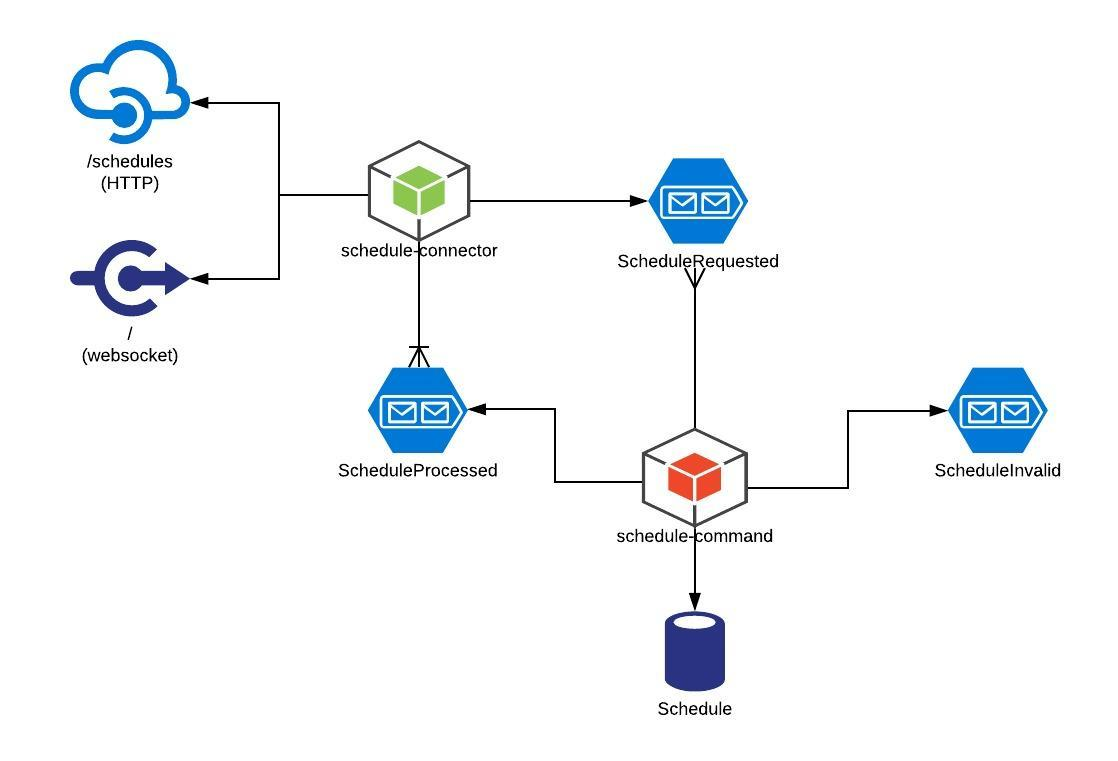
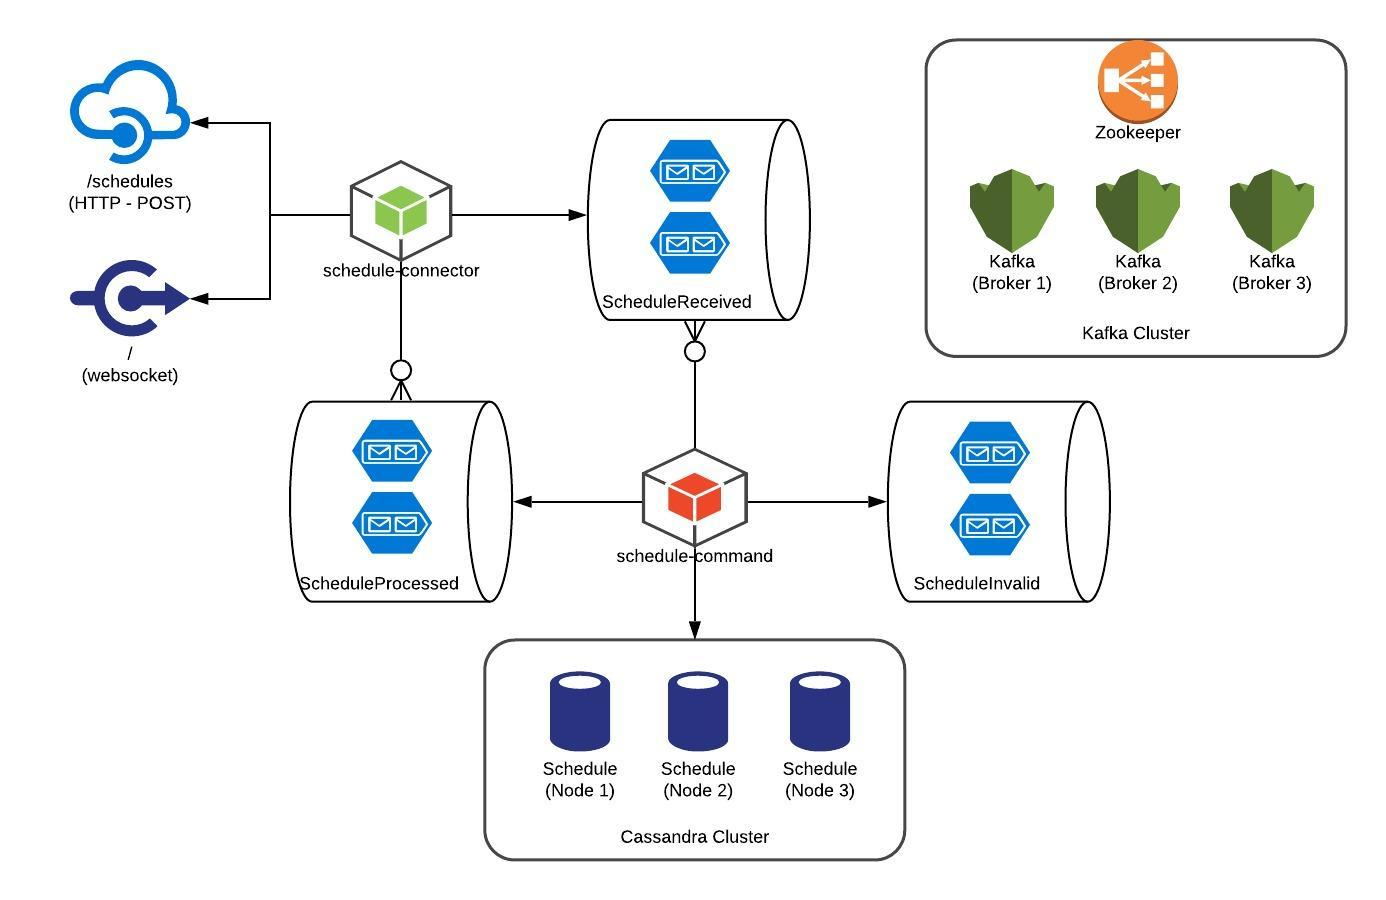
Create cassandra cluster

diff --git a/commons-cassandra/src/main/java/br/com/emmanuelneri/reactivemicroservices/cassandra/config/CassandraConfiguration.java b/commons-cassandra/src/main/java/br/com/emmanuelneri/reactivemicroservices/cassandra/config/CassandraConfiguration.java
@@ -2,6 +2,9 @@ package br.com.emmanuelneri.reactivemicroservices.cassandra.config;
 
 import io.vertx.cassandra.CassandraClientOptions;
 import io.vertx.core.json.JsonObject;
+import java.net.InetSocketAddress;
+import java.util.Objects;
+import java.util.stream.Stream;
 import lombok.Getter;
 import lombok.ToString;
 
@@ -9,11 +12,27 @@ import lombok.ToString;
 @ToString
 public final class CassandraConfiguration {
 
+    private static final String CONTACT_POINT_SEPARATION_CHARACTER = ",";
+    private static final String PORT_SEPARATION_CHARACTER = ":";
     private final CassandraClientOptions options = new CassandraClientOptions();
 
     public CassandraConfiguration(final JsonObject configuration) {
-        options.addContactPoint(configuration.getString("cassandra.contactPoint"));
-        options.setPort(configuration.getInteger("cassandra.port"));
+        final String contactPoints = configuration.getString("cassandra.contactPoints");
+        if (Objects.nonNull(contactPoints)) {
+            Stream.of(contactPoints.split(CONTACT_POINT_SEPARATION_CHARACTER))
+                .forEach(contactPoint -> {
+                    final int separationIndex = contactPoint.indexOf(":");
+                    final String address = contactPoint.substring(0, separationIndex);
+                    final int port = Integer.parseInt(contactPoint.substring(separationIndex + 1));
+                    options.dataStaxClusterBuilder()
+                        .addContactPointsWithPorts(new InetSocketAddress(address, port));
+                });
+        }
+        else {
+            options.setPort(configuration.getInteger("cassandra.port"));
+            options.addContactPoint(configuration.getString("cassandra.contactPoint"));
+        }
+
         options.setKeyspace(configuration.getString("cassandra.keyspace"));
     }
 }

diff --git a/README.md b/README.md
@@ -36,7 +36,8 @@ reactive-architecture
 ## Running environment 
 
 1. Start infrastructure (Kafka, Cassandra), execute ```docker-compose up```
-2. Create tables ```docker exec -it cassandra bash -c "cqlsh -f /tmp/schedule.cql"```
+3. Create topics ```./kafka-create-topics.sh```
+2. Create tables ```./cassandra-create-tables.sh```
 
 
 ## TODO: 
@@ -50,9 +51,6 @@ reactive-architecture
 - idempotente consumer
     - https://dzone.com/articles/kafka-clients-at-most-once-at-least-once-exactly-o
     - https://camel.apache.org/components/latest/eips/idempotentConsumer-eip.html
-- Tópicos
-    - Partições
-    - Replicas (escalar Kafka)
 - Fallback 
   - Connector : Kafka fora
   - Command : Cassandra fora

diff --git a/schedule-command/README.md b/schedule-command/README.md
@@ -1,7 +1,7 @@
 ## Schedule command
 
 ### Cassandra Query
-1. Access Cassandra in Docker```docker exec -it cassandra bash```
+1. Access Cassandra in Docker```docker exec -it cassandra1 bash```
 2. Cassandra connect```cqlsh``` 
 3. Execute Query```SELECT * from dev.schedule``` 
 ```
